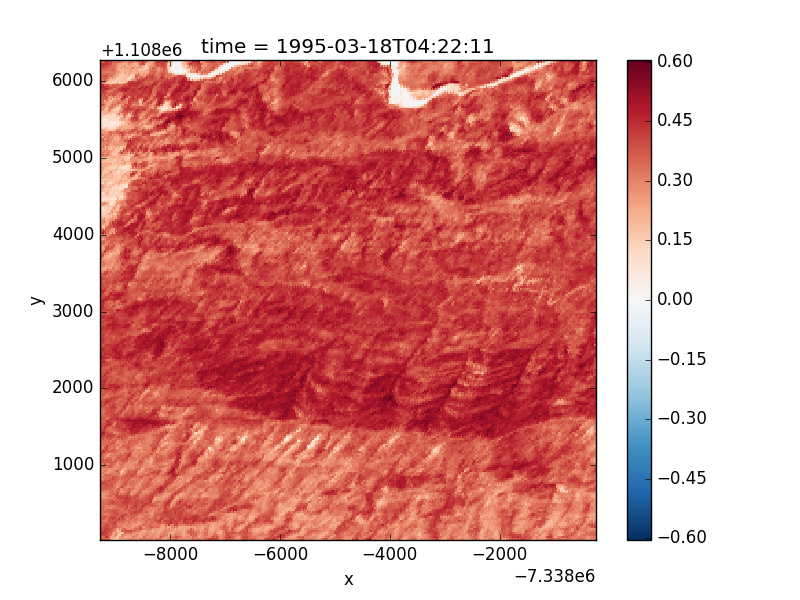
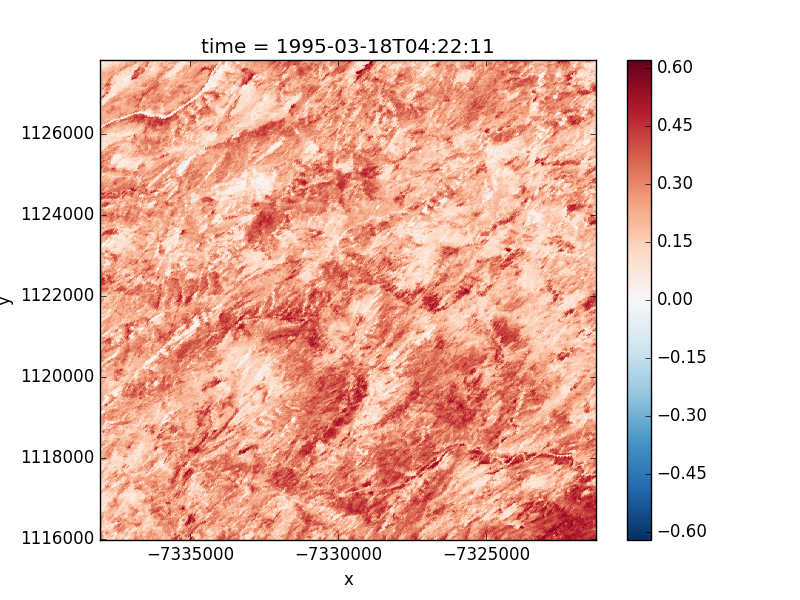
From inputs

diff --git a/portal/templates/four.html b/portal/templates/four.html
@@ -32,12 +32,13 @@
 		}
 		div#div1{
 			border-style:solid;
-			width:93%;
+			width:84%;
 			display:block;
-			text-align:center;
+			text-align:left;
 			position:absolute;
 			padding:2%;
 			padding-top:1%;
+			padding-left:12%;
 			font-size:14pt;
 			font-family:times new roman;
 			font-weight:bold;
@@ -50,7 +51,7 @@
 			float:left;
 			width:40%;
 			height:65%;
-			margin-top:12%;
+			margin-top:11%;
 			display:block;
 			position:absolute;
 			margin-left:0.5%;
@@ -60,6 +61,7 @@
 		}
 		input[type="number"]{
    			width:5%;
+   			font-size: 12pt;
 		}
 		#product{
   			width: 100px;
@@ -230,27 +232,27 @@
 			<option value="Reflectance">Reflectance</output>
 			<option value="NDVI">NDVI</output>
 			<option value="LST">LST</output>
-		</select>&nbsp;&nbsp;&nbsp;&nbsp;&nbsp;&nbsp;&nbsp;&nbsp;&nbsp;&nbsp;&nbsp;&nbsp;&nbsp;&nbsp;&nbsp;&nbsp;&nbsp;&nbsp;&nbsp;&nbsp;&nbsp;
+		</select>&nbsp;&nbsp;&nbsp;&nbsp;&nbsp;&nbsp;&nbsp;&nbsp;&nbsp;&nbsp;&nbsp;&nbsp;&nbsp;&nbsp;&nbsp;&nbsp;&nbsp;&nbsp;&nbsp;&nbsp;&nbsp;&nbsp;&nbsp;&nbsp;&nbsp;&nbsp;&nbsp;&nbsp;&nbsp;&nbsp;&nbsp;&nbsp;&nbsp;&nbsp;&nbsp;&nbsp;&nbsp;&nbsp;&nbsp;
 		
 		<button type="submit" id="id_submit2" onclick=funct() value="Submit">Submit</button>
 		
 		<br/><br/>
 		<label for="id_x1">x1:</label> <input id="id_x1" maxlength="8" name="x1" size="5" type="number" value="79.0" step="0.01" required />
-		&nbsp;&nbsp;&nbsp;&nbsp;&nbsp;&nbsp;&nbsp;&nbsp;&nbsp;&nbsp;&nbsp;&nbsp;&nbsp;&nbsp;&nbsp;&nbsp;&nbsp;
+		&nbsp;&nbsp;&nbsp;&nbsp;&nbsp;&nbsp;&nbsp;&nbsp;&nbsp;&nbsp;&nbsp;
 	    <label for="id_x2">x2:</label> <input id="id_x2" maxlength="8" name="x2" type="number" value="79.05" step="0.01" required/>
-		&nbsp;&nbsp;&nbsp;&nbsp;&nbsp;&nbsp;&nbsp;&nbsp;&nbsp;&nbsp;&nbsp;&nbsp;&nbsp;&nbsp;&nbsp;&nbsp;&nbsp;
+		&nbsp;&nbsp;&nbsp;&nbsp;&nbsp;&nbsp;&nbsp;&nbsp;&nbsp;&nbsp;&nbsp;&nbsp;&nbsp;&nbsp;
 		<label for="id_y1">y1:</label> <input id="id_y1" maxlength="8" name="y1" type="number" value="30" step="0.01" required/>
-		&nbsp;&nbsp;&nbsp;&nbsp;&nbsp;&nbsp;&nbsp;&nbsp;&nbsp;&nbsp;&nbsp;&nbsp;
+		&nbsp;&nbsp;&nbsp;&nbsp;&nbsp;&nbsp;&nbsp;&nbsp;
 		<label for="id_y2">y2:</label> <input id="id_y2" maxlength="8" name="y2" type="number" value="30.05" step="0.01" required/>
-		&nbsp;&nbsp;&nbsp;&nbsp;&nbsp;&nbsp;&nbsp;&nbsp;&nbsp;&nbsp;&nbsp;&nbsp;&nbsp;&nbsp;&nbsp;
+		&nbsp;&nbsp;&nbsp;&nbsp;&nbsp;&nbsp;&nbsp;&nbsp;&nbsp;&nbsp;&nbsp;&nbsp;
 		EPSG:&nbsp;&nbsp;&nbsp;
-		<input type="number"  id="id_epsg" value="32644"/>&nbsp;&nbsp;&nbsp;&nbsp;&nbsp;&nbsp;&nbsp;&nbsp;&nbsp;&nbsp;&nbsp;&nbsp;&nbsp;&nbsp;&nbsp;&nbsp;&nbsp;&nbsp;&nbsp;&nbsp;&nbsp;&nbsp;&nbsp;&nbsp;&nbsp;&nbsp;&nbsp;&nbsp;&nbsp;&nbsp;&nbsp;&nbsp;&nbsp;&nbsp;&nbsp;
+		<input type="number"  id="id_epsg" value="32644"/>&nbsp;&nbsp;&nbsp;&nbsp;&nbsp;&nbsp;&nbsp;&nbsp;&nbsp;&nbsp;&nbsp;&nbsp;&nbsp;&nbsp;&nbsp;&nbsp;&nbsp;&nbsp;&nbsp;&nbsp;&nbsp;&nbsp;&nbsp;&nbsp;&nbsp;&nbsp;&nbsp;&nbsp;&nbsp;&nbsp;&nbsp;&nbsp;&nbsp;&nbsp;&nbsp;&nbsp;&nbsp;&nbsp;&nbsp;&nbsp;&nbsp;&nbsp;&nbsp;&nbsp;&nbsp;&nbsp;&nbsp;	
 		
 		<button type="submit" id="ipython" onclick="window.open('http://172.26.91.46:9999/')" target="_blank">iPython instance</button>
 		</div>
 		
 	<script>
-		document.getElementById("input_year").value = 1990;
+		document.getElementById("input_year").value = 1995;
 		document.getElementById("input_layer").value = 1;
 		document.getElementById("product").value = "Reflectance";
 		document.getElementById("id_epsg").value = 32644;
@@ -307,6 +309,10 @@
 
 
 		function funct(){
+			x1=document.getElementById("id_x1").value;
+			x2=document.getElementById("id_x2").value;
+			y1=document.getElementById("id_y1").value;
+			y2=document.getElementById("id_y2").value;
 			year=document.getElementById("input_year").value;
 			layer=document.getElementById("input_layer").value;
 			prod=document.getElementById("product").value;
@@ -322,16 +328,14 @@
 			async: true,
 			data: {
 				csrfmiddlewaretoken: '{{csrf_token}}',
-				// x1:x1,
-				// x2:x2,
-				// y1:y1,
-				// y2:y2,
+				x1:x1,
+				x2:x2,
+				y1:y1,
+				y2:y2,
 				year:year,
 				layer:layer,
 				prod:prod,
 				epsg:epsg,
-				bounds:bounds
-
 			},
 			success: function(data) {
 				if(data.status == 1){

diff --git a/portal/views.py b/portal/views.py
@@ -30,20 +30,16 @@ def AJAXHandle(request):
 	print request
 	if request.is_ajax():
 		print request.POST
-		print "\n\n\n","HEERRRERRER","\n\n\n"
-		print request.POST['bounds[north]']
-		print request.POST['bounds[south]']
-		print request.POST['bounds[east]']
-		print request.POST['bounds[west]']		
+		print "\n\n\n","HEERRRERRER","\n\n\n"	
 		year = request.POST['year']
 		layer = request.POST['layer']
 		epsg = request.POST['epsg']
 		algo = request.POST['prod']
 		print "before truncating"
-		x1 = float("{0:.2f}".format(float(request.POST['bounds[west]'])))
-		x2 = float("{0:.2f}".format(float(request.POST['bounds[east]'])))
-		y1 = float("{0:.2f}".format(float(request.POST['bounds[south]'])))
-		y2 = float("{0:.2f}".format(float(request.POST['bounds[north]'])))
+		x1 = float(request.POST['x1'])
+		x2 = float(request.POST['x2'])
+		y1 = float(request.POST['y1'])
+		y2 = float(request.POST['y2'])
 		print "before call"
 		imsource = plot(year,layer,x1,x2,y1,y2,epsg,algo)
 		response = {'status': 1, 'message': imsource + "?t=" + str(random.randint(1,1000))} 
